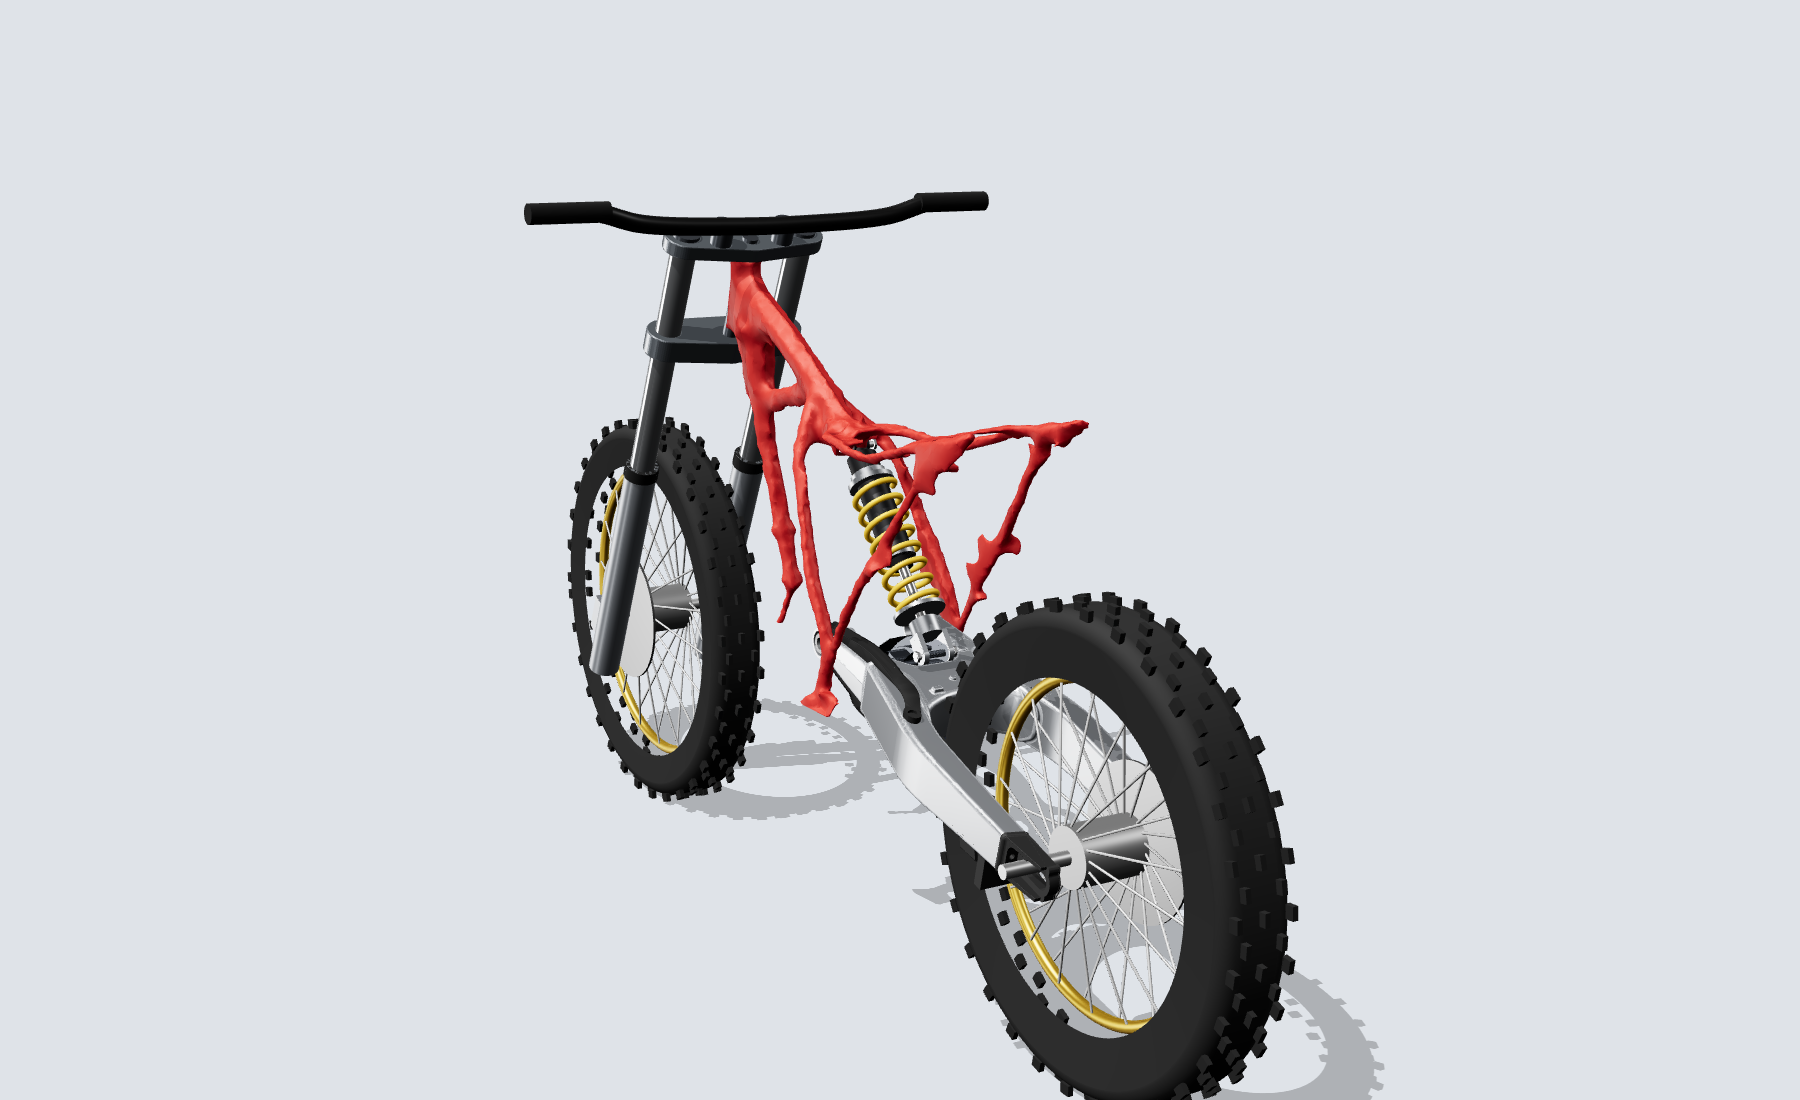
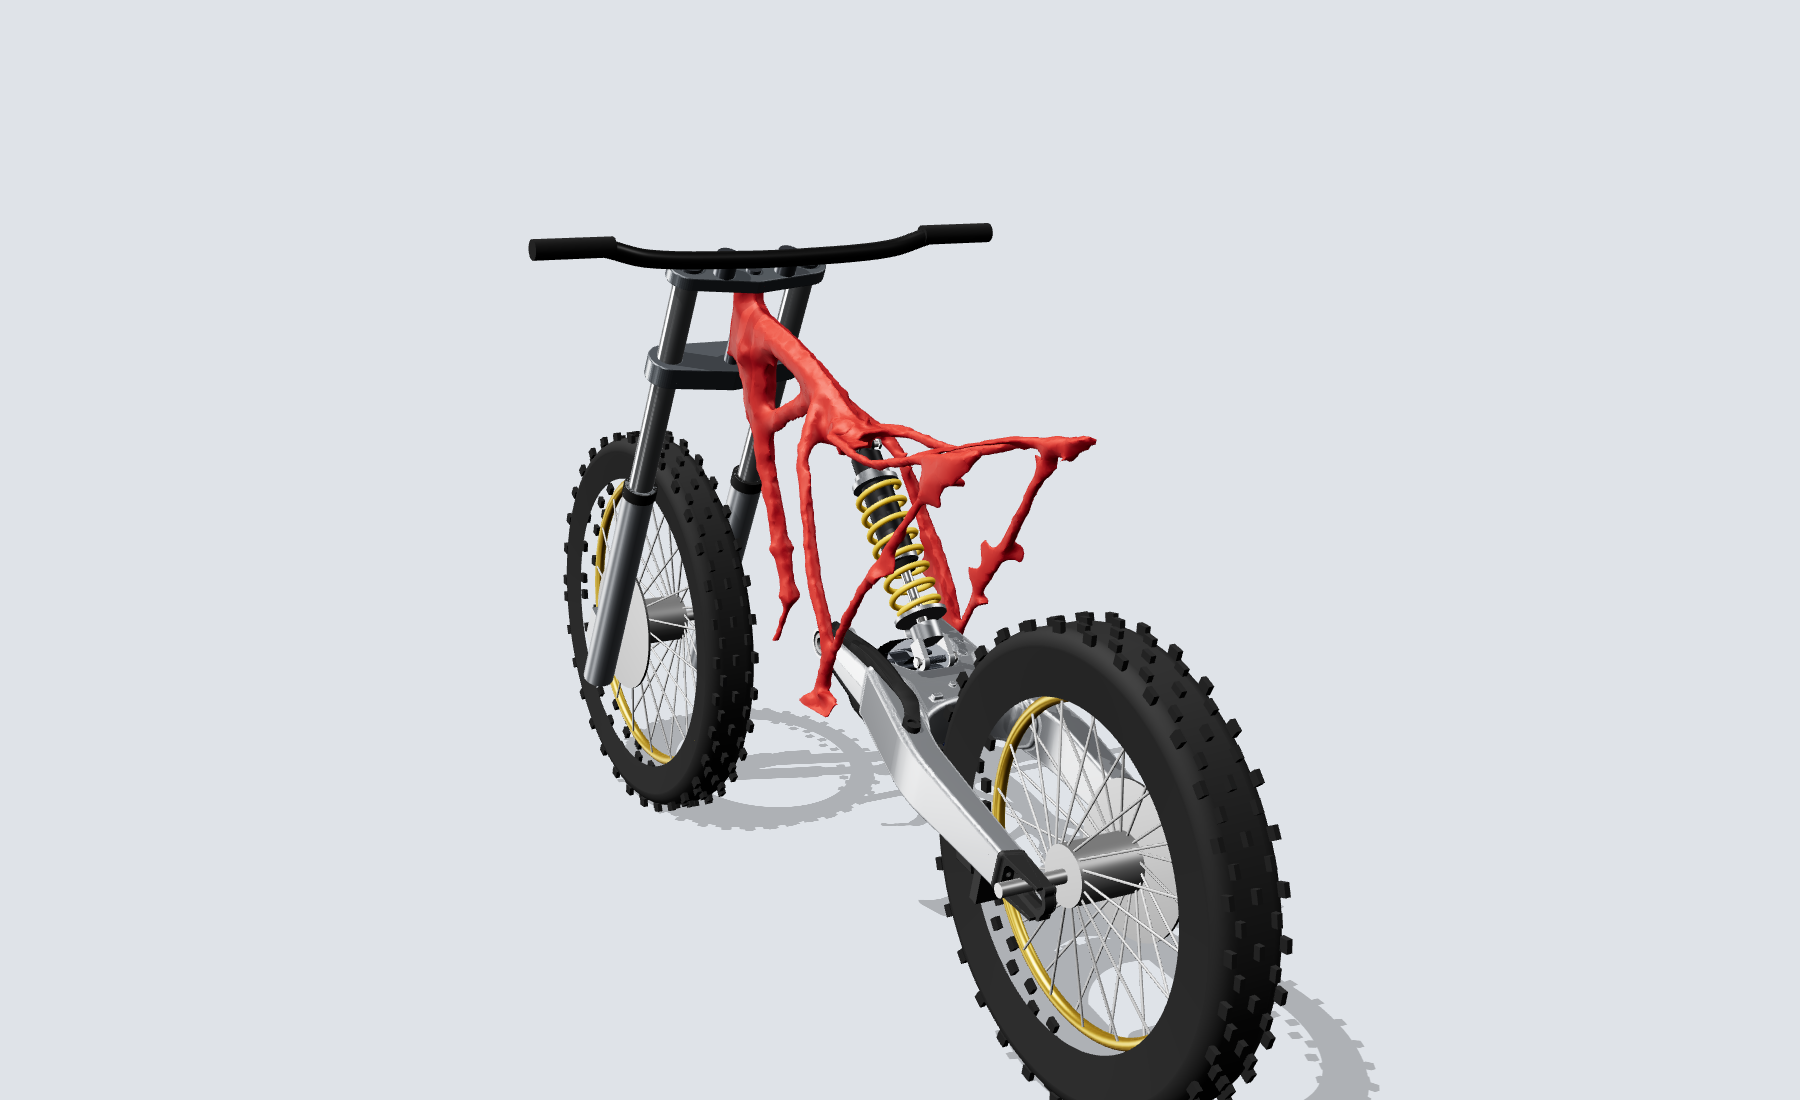
Render: ease scan front onto the measured bench head tube without kinks
Claude-Session: https://claude.ai/code/session_01EhMcsCxbaz5LuQ9ftYg4nN

Changed region(s): [[0.28, 0.1545, 0.7778, 1.0], [0.6844, 0.6491, 0.7156, 0.8036], [0.7156, 0.8036, 0.7467, 0.8345]]

diff --git a/files/rear-render/page.html b/files/rear-render/page.html
@@ -12,7 +12,7 @@ function front(opt){
   // bottom yoke), slide 0, spacer 50, offset 47 total, fork 935, front sag 74. Head tube placed on the frame scan's head tube.
   const rho=(opt.rho??27.5)*Math.PI/180;
   const u=[Math.sin(rho),-Math.cos(rho)], f=[Math.cos(rho),Math.sin(rho)];
-  const top=[455-25*f[0],575-25*f[1]], HEAD=145;  // head tube top centre off the frame scan (unbent)
+  const HEAD=145, bot=[516,365]; const top=[bot[0]-HEAD*u[0],bot[1]-HEAD*u[1]];  // bench head tube bottom (Joel measured), scan eased onto it
   const offset=opt.offset??47, yokeOff=20, axleFwd=offset-yokeOff, halfSpan=105;
   const stack=215, slide=opt.slide??0, spacer=opt.spacer??50, sag=opt.fsag??74;
   const botYokeZ=-(HEAD+15+36), Hz=botYokeZ;           // local Z (up the axis) of the bottom yoke underside

diff --git a/files/rear-render/build.py b/files/rear-render/build.py
@@ -95,8 +95,10 @@ def arm_parts(beta):
 scan = trimesh.load('/mnt/project-files/frame-scan/fusion/xl125r-frame-scan-full.stl')
 v = scan.vertices.copy(); x = v[:, 0]
 v[:, 1] -= 0.13*np.clip(-60 - x, 0, None)*np.clip((v[:, 2] - 60)/120, 0, 1)
-if False:   # (removed 31 Oct, Joel: frame went bendy) move the scan's head tube onto the bench's (bottom 516 fwd / 365 up vs the scan's ~499 / 435), blended in from x 150 to 430
-    wgt = np.clip((x - 150)/280, 0, 1); wgt = wgt*wgt*(3 - 2*wgt)
+if BENCH:   # Joel 31 Oct: the bench's head tube is right (measured 632 pivot to head). The scan's front is ~70 mm out, so ease it
+    # onto the bench's head tube (bottom 516 fwd / 365 up vs the scan's ~499 / 435) with a correction spread smoothly along the whole
+    # front of the frame (from the shock top mount, x 55, to the head), so no tube gets a visible bend. Everything behind the shock top is untouched.
+    wgt = np.clip((x - 55)/461, 0, 1); wgt = wgt*wgt*(3 - 2*wgt)
     v[:, 0] += 17*wgt; v[:, 2] += -70*wgt
 scan.vertices = v
 def pack(m, digits=1):

diff --git a/files/rear-render/README.md b/files/rear-render/README.md
@@ -16,7 +16,7 @@ Joel's CRF250R arm (from his STEP model), his v2 windowed rocker (traced from hi
 - [Animation, both ends droop to bump (GIF)](https://raw.githubusercontent.com/Blevo66/chassis-bench/claude/project-thread-bk4fwa/files/rear-render/render-bike-travel.gif)
 - [Three-quarter rear](https://raw.githubusercontent.com/Blevo66/chassis-bench/claude/project-thread-bk4fwa/files/rear-render/render-bike-rear.png)
 
-Whole-bike renders use Joel's Chassis Bench fork settings (50 mm spacer, 47 mm total offset, stack 215, slide 0, 935 mm fork, 27.5 deg to the frame vertical, 74 mm front / 79 mm rear sag) and the bench's arm lug (200 / 50; arm model shifted ~10 mm to suit), on the frame scan's own head tube (not bent). The scan's head tube is ~662 mm from the pivot to its bottom; the bench's is 632 (fitted, not measured), which is why the bench reads steeper. Result at sag: about 26.6 deg head angle, 121 mm trail, 1398 mm wheelbase (bench: 29.1 / 139 / 1403). The animation keeps the tyres on the floor. Tube spacing (210 mm), yoke shapes and bars are stand-ins.
+Whole-bike renders use Joel's Chassis Bench settings (50 mm spacer, 47 mm total offset, stack 215, slide 0, 935 mm fork, 27.5 deg to the frame vertical, 74 mm front / 79 mm rear sag, arm lug 200 / 50 with the arm model shifted ~10 mm to suit). Joel confirmed the bench's head tube position is measured (632 mm pivot to head), so the scan's front, ~70 mm out, is eased onto it with a correction that starts at zero at the shock top mount and grows smoothly to the head tube (no kinks; everything behind the shock mount untouched). Result at sag: about 29.4 deg head angle, 141 mm trail, 1413 mm wheelbase (bench: 29.1 / 139 / 1403; the small gap is Joel's v2 rocker). The animation keeps the tyres on the floor. Tube spacing (210 mm), yoke shapes and bars are stand-ins.
 
 Notes (rear-only renders above): the linkage is solved with the arm model's own lug hole, which is 209 mm along and 56 mm below the arm line. Joel's tape on his arm said 200 / 50. With the model's lug the arm tops out at 28.4 deg down (not ~24), with 252 mm vertical wheel travel and about 30% rising rate. Shock details (clevis, seat at ~72 mm, ~78 mm OD spring) are estimates.
 
